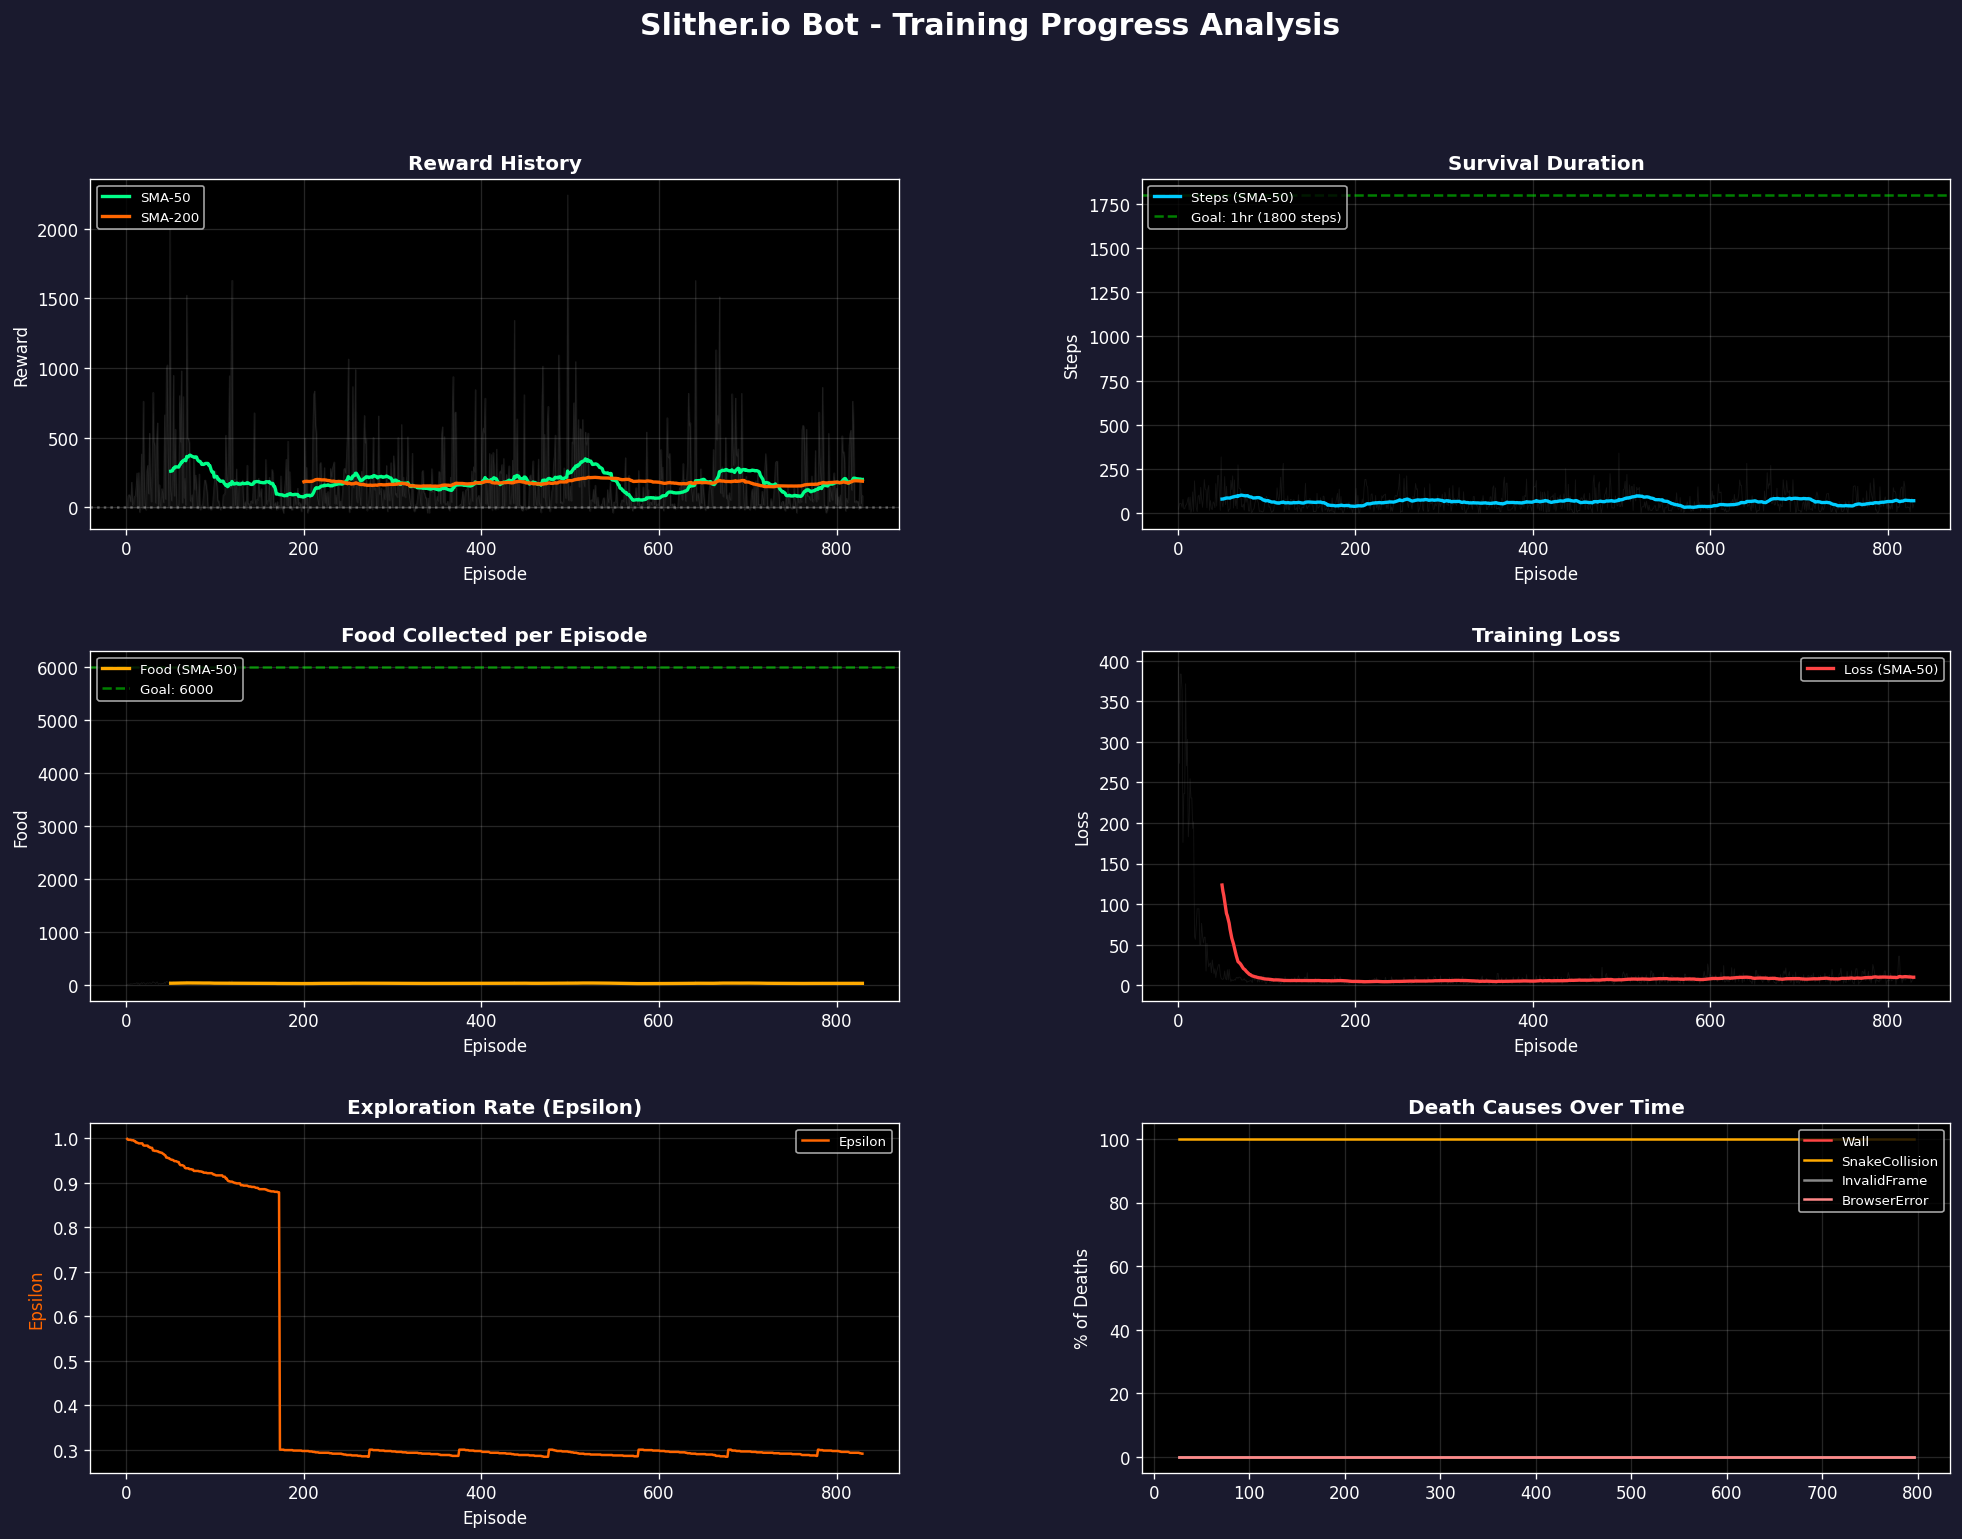
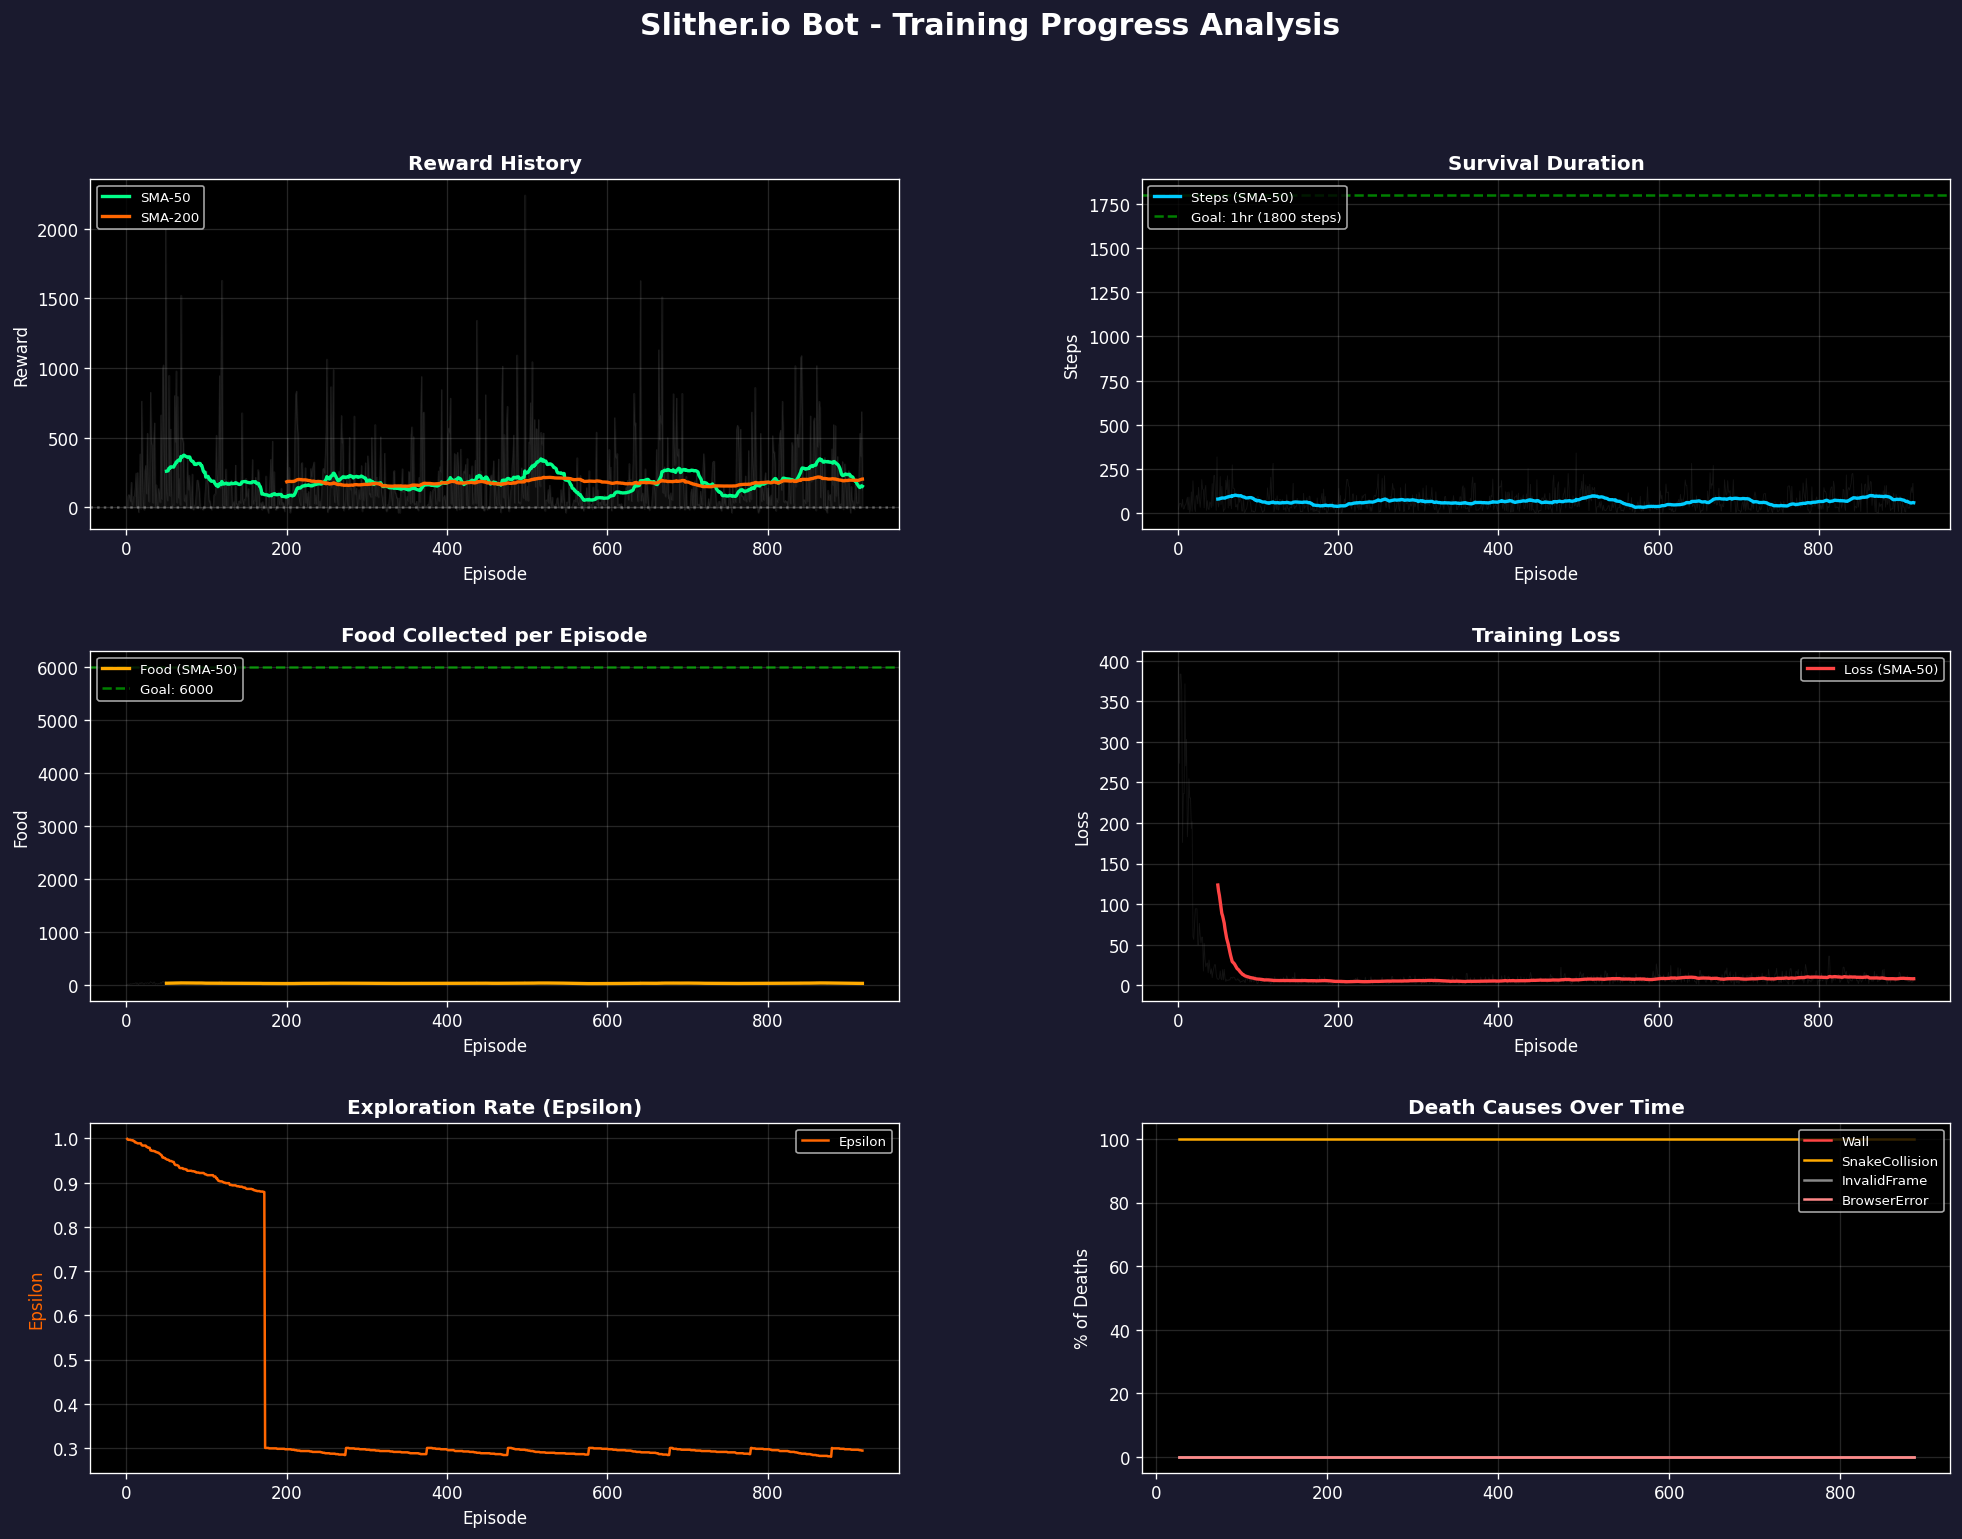
stats

diff --git a/gen2/progress_report.md b/gen2/progress_report.md
@@ -1,7 +1,7 @@
 # Slither.io Bot - Training Progress Report
 
-**Generated:** 2026-02-12 23:15:27  
-**Total Episodes:** 829  
+**Generated:** 2026-02-12 23:25:30  
+**Total Episodes:** 918  
 **Training Sessions:** 1
 
 ## Verdict: NOT LEARNING (Confidence: 50%)
@@ -9,7 +9,7 @@
 **Goal Feasibility:** UNLIKELY (5-25% chance) without tuning
 
 ### Warnings
-- Rewards flat: change = -6.2 between halves
+- Rewards flat: change = 11.4 between halves
 
 ### Positive Signals
 - Loss decreasing (model converging)
@@ -18,10 +18,10 @@
 
 | Metric | Mean | Std | Min | Max | P50 | P95 |
 |--------|------|-----|-----|-----|-----|-----|
-| Reward | 181.64 | 261.33 | -38.58 | 2242.28 | 83.00 | 679.00 |
-| Steps | 63.90 | 53.99 | 2.00 | 340.00 | 48.00 | 169.00 |
-| Food | 27.79 | 10.74 | 0.00 | 77.00 | 25.00 | 47.60 |
-| Loss | 13.98 | 40.93 | 0.53 | 392.24 | 6.23 | 24.88 |
+| Reward | 189.10 | 264.02 | -38.58 | 2242.28 | 88.65 | 684.89 |
+| Steps | 65.61 | 54.82 | 2.00 | 340.00 | 49.00 | 170.15 |
+| Food | 28.10 | 10.93 | 0.00 | 77.00 | 25.00 | 49.00 |
+| Loss | 13.43 | 38.95 | 0.53 | 392.24 | 6.36 | 22.16 |
 
 ## Goal Progress
 
@@ -34,7 +34,7 @@
 
 | # | Style | Episodes | Avg Reward | Avg Steps |
 |---|-------|----------|------------|----------|
-| 1 | Standard (Curriculum) | 1-829 | 181.6 | 64 |
+| 1 | Standard (Curriculum) | 1-918 | 189.1 | 66 |
 
 ## Recommendations
 
